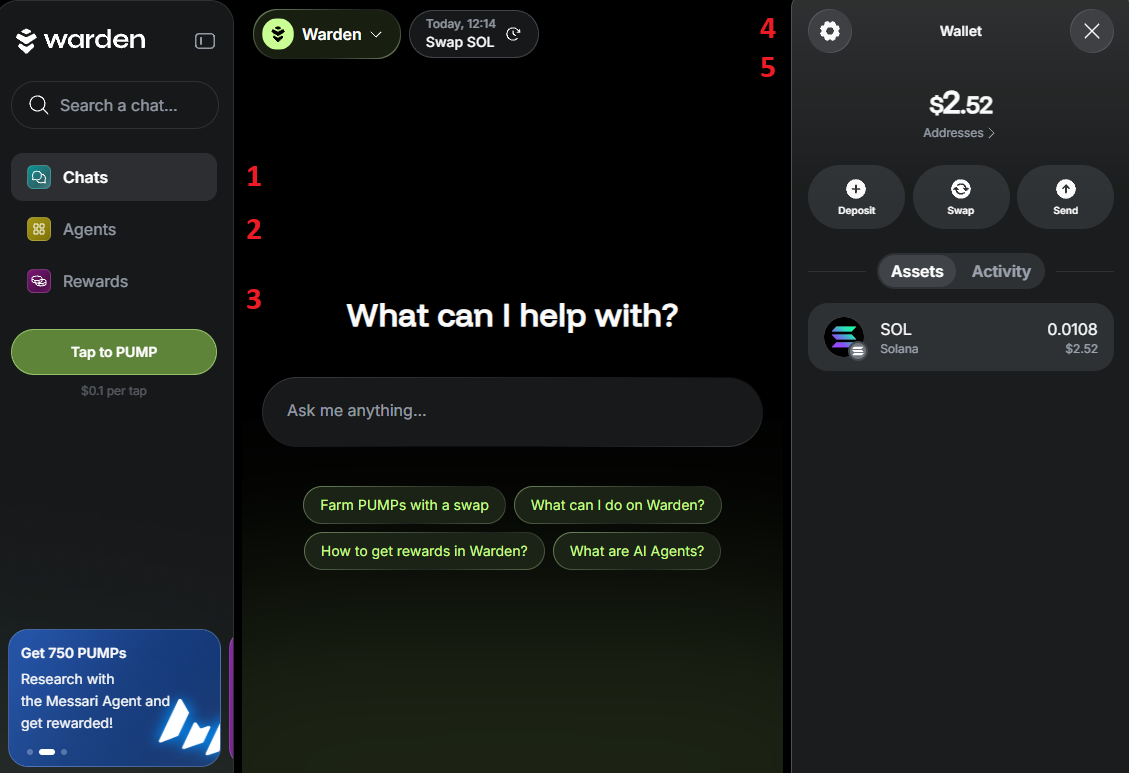
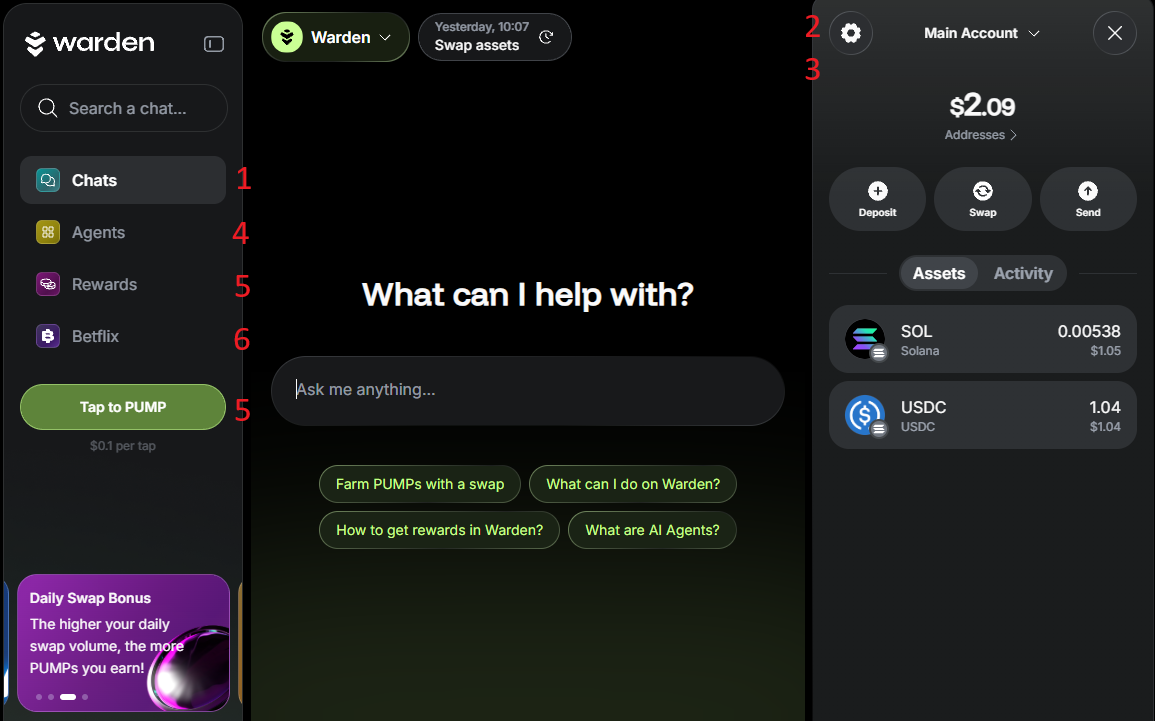
added betflix and levva

diff --git a/docs/help-center/docs/warden-app/explore-ai-agents.md b/docs/help-center/docs/warden-app/explore-ai-agents.md
@@ -1,5 +1,5 @@
 ---
-sidebar_position: 4
+sidebar_position: 6
 ---
 
 # Explore AI Agents
@@ -15,7 +15,7 @@ In the sections below, you'll find the list of available Agents—and more are c
 You can explore and select Agents in the **Agent Hub**:
 
 1. Log in: 👉 [Warden](https://app.wardenprotocol.org)
-2. In the left menu, navigate to the **Agents** tab.
+2. In the left menu, open the **Agents** tab.
 3. Select an Agent. If required, review and accept the legal terms.
 4. After selecting an Agent, you'll be taken to the [Chats tab](use-the-chat#start-chatting).
 5. Make sure you've [funded your wallet](manage-assets#deposit-assets) on one of the chains supported by the chosen Agent.
@@ -48,7 +48,7 @@ Networks:
 - **Base**
 - **BNB Smart Chain (BSC)**
 
-Fees: [swap](fees#swap-fees) and [transfer fees](fees#transfer-fees).
+Fees: [swap](fees#swap-fees) and [transfer fees](fees#transfer-fees)
 
 ### Uniswap Trading API
 
@@ -66,7 +66,7 @@ Networks:
 - **Base**
 - **BNB Smart Chain (BSC)**
 
-Fees: [swap](fees#swap-fees) and [transfer fees](fees#transfer-fees).
+Fees: [swap](fees#swap-fees) and [transfer fees](fees#transfer-fees)
 
 :::note
 To start using this Agent, you need to read and agree to the Uniswap Labs terms of service and privacy policy.
@@ -82,9 +82,9 @@ Just specify the amount and other details in the chat, and the Agent will do the
 - Swap tokens for each other
 - Send SOL or any token to a destination address
 
-Networks: **Solana**.
+Networks: **Solana**
 
-Fees: [swap](fees#swap-fees) and [transfer fees](fees#transfer-fees).
+Fees: [swap](fees#swap-fees) and [transfer fees](fees#transfer-fees)
 
 ### deBridge
 
@@ -104,7 +104,7 @@ Tokens:
 - **BNB**
 - **USDC**
 
-Fees: [deBridge fees](fees#debridge-fees).
+Fees: [deBridge fees](fees#debridge-fees)
 
 ### Base Farmer
 
@@ -121,13 +121,15 @@ Tokens:
 - **USDC**
 - **VIRTUAL**
 
-Fees: [swap](fees#swap-fees) and [transfer fees](fees#transfer-fees).
+Fees: [swap](fees#swap-fees) and [transfer fees](fees#transfer-fees)
 
 ### Levva
 
-The **Levva** Agent is an AI-powered portfolio manager tailoring investment strategies to your goals and automating yield optimization.
+The **Levva** Agent is an AI-powered portfolio manager tailoring investment strategies to your goals and automating yield optimization. This Agent can assist with analyzing your wallet, swapping tokens, managing positions, checking market news, and more.
 
-Fees: [platform fee](fees#platform-fee).
+Networks: **Base**
+
+Fees: [swap fees](fees#swap-fees)
 
 ## Research Agents
 
@@ -139,7 +141,7 @@ The **Messari Deep Research** Agent integrates with [Messari](https://messari.io
 
 Use this Agent to research any blockchain project with detailed, real-time insight: discover trending tokens on a specific chain, generate meme coin reports, analyze NFT market dynamics, and much more.
 
-Fees: [research Agent fees](fees#research-agent-fees).
+Fees: [research Agent fees](fees#research-agent-fees)
 
 ### Kaibot
 
@@ -152,7 +154,7 @@ Fees: [research Agent fees](fees#research-agent-fees).
 
 To start using Kaibot, provide your X handle. If your handle is already linked to the Warden account, Kaibot will fetch it automatically.
 
-Fees: [research Agent fees](fees#research-agent-fees).
+Fees: [research Agent fees](fees#research-agent-fees)
 
 ### WachAI
 
@@ -161,14 +163,14 @@ Fees: [research Agent fees](fees#research-agent-fees).
 - **Address- and chain-based verification**: You provide WachAI with the token's address and the blockchain it resides on. This method is highly accurate, as token addresses are unique.
 - **Ticker-based verification**: You provide WachAI with a token's ticker, and the Agent fetches verification data. This method is less reliable due to possible duplicates in token tickers.
 
-Fees: [research Agent fees](fees#research-agent-fees).
+Fees: [research Agent fees](fees#research-agent-fees)
 
 ## Coming soon
 
 The Agent lineup keeps growing. Here's what to expect next:
 
-- **Travel Agent**: Book trips with AI.
-- **Intelligent DCA**: Perform smart crypto purchases using Dollar-Cost Averaging (DCA)—an investment strategy that spreads out buys over time to reduce the impact of price swings.
+- **Intelligent DCA**
+- **Travel Agent**
 - **ApexLiquid**
 - **The Quantfather**
 - **Venice**

diff --git a/docs/help-center/docs/warden-app/play-betflix.md b/docs/help-center/docs/warden-app/play-betflix.md
@@ -1,0 +1,69 @@
+---
+sidebar_position: 8
+---
+
+# Play Betflix
+
+## Overview
+
+You can trade with **Betflix**, Warden's Tinder-style prediction game.
+
+More trading experiences are coming soon—stay tuned!
+
+## Rules
+
+The rules of Betflix are very simple:
+
+- Swipe right or left to instantly go short or long on crypto assets.
+- Each round lasts 5, 15, or 30 seconds depending on the coin.
+- Positions are auto-closed or liquidated.
+- Outcomes are instantly displayed.
+
+Gameplay details:
+
+- To play, you need **USDC on Solana**.
+- The bet is fixed: **$2** per round with fixed **100x leverage**.
+- Supported coins: **DOGE**, **PEPE**, **BONK**, **WIF**, **SHIB**, **TRUMP**, and more.
+- All bets incur fees. Learn more: [Betflix fees](fees#betflix-fees).
+- [Top traders](#check-your-stats) earn bonuses and [PUMPs](earn-rewards#earn-pumps).
+
+## Start playing
+
+To start playing, you need **USDC on Solana**—starting from **$6**:
+
+1. Log in: 👉 [Warden](https://app.wardenprotocol.org)
+2. If you don't have USDC on Solana, [deposit it to your main wallet](manage-assets#deposit-assets).
+3. In the left menu, open the **Betflix** tab.
+4. In the right panel, click **Deposit** and add USDC from your main wallet.
+5. Start playing:
+   - Swipe right → Go long
+   - Swipe left → Go short
+   - Swipe up → Don't trade
+
+![Start playing Betflix in Warden](../../static/img/warden-app/play-betflix-1.png)
+
+## Deposit & withdraw
+
+**Betflix wallet** is always visible in the right panel of the **Betflix** tab. It supports only **USDC on Solana**.
+
+You can move funds between your [main Warden wallet](manage-your-wallet) and your Betflix wallet:
+
+- To deposit USDC (starting from **$6**), click **Deposit**.
+- To withdraw USDC (starting from **$1**), click **Withdraw**.
+
+:::tip
+To switch to your main wallet at any time, select **Main Account** from the top menu.
+:::
+
+![Start playing Betflix in Warden](../../static/img/warden-app/play-betflix-2.png)
+
+## Check your stats
+
+Each swipe adds to your hourly, daily, and weekly **leaderbords**, ranked by profit and streaks. Top traders earn bonuses, tokens, and [PUMPs](earn-rewards#earn-pumps).
+
+You can view your game statistics in your Betflix wallet, on the right of the **Betflix** tab:
+
+- Check your ranking in the **Leaderboard** tab. You can filter it by **1h**, **24h**, or **7d**.
+- Review your recent plays and results in the **Your Bets** tab.
+
+![Start playing Betflix in Warden](../../static/img/warden-app/play-betflix-3.png)

diff --git a/docs/help-center/docs/warden-app/earn-rewards.md b/docs/help-center/docs/warden-app/earn-rewards.md
@@ -1,5 +1,5 @@
 ---
-sidebar_position: 5
+sidebar_position: 7
 ---
 
 # Earn rewards
@@ -21,7 +21,7 @@ The most active users will also gain priority access to upcoming features.
 To create your **PumpKoin**, take these steps:
 
 1. Log in: 👉 [Warden](https://app.wardenprotocol.org)
-2. In the left menu, navigate to the **Rewards** tab.
+2. In the left menu, open the **Rewards** tab.
 3. Then simply name your coin.
 
 Congratulations! Now you can start earning PUMP points.
@@ -66,10 +66,15 @@ You can access the game from any tab—simply click **Tap to PUMP** in the left 
 
 ![Create and grow your coin in Warden](../../static/img/warden-app/earn-rewards-3.png)
 
+### Play Betflix
+
+You can earn PUMPs if you climb the leaderboards in **Betflix**, our trading game.
+
+Learn more: [Play Betflix](play-betflix).
 
 ### Check your rank
 
-To check your coin's rank, navigate to the **Rewards** tab and scroll down to the **PUMP Leaderboard**:
+To check your coin's rank, open the **Rewards** tab and scroll down to the **PUMP Leaderboard**:
 
 ![Create and grow your coin in Warden](../../static/img/warden-app/earn-rewards-4.png)
 

diff --git a/docs/help-center/docs/warden-app/introduction.md b/docs/help-center/docs/warden-app/introduction.md
@@ -32,10 +32,11 @@ These components work together to create a powerful tool for you to navigate the
 Within Warden, you can do the following:
 
 1. [Use the AI chat](warden-app/use-the-chat)
-2. [Explore AI Agents](warden-app/explore-ai-agents)
-3. [Earn rewards](warden-app/earn-rewards)
-4. [Manage your wallet](warden-app/manage-your-wallet)
-5. [Manage assets](warden-app/manage-assets)
+2. [Manage your wallet](warden-app/manage-your-wallet)
+3. [Manage assets](warden-app/manage-assets)
+4. [Explore AI Agents](warden-app/explore-ai-agents)
+5. [Earn rewards](warden-app/earn-rewards)
+6. [Play Betflix](warden-app/play-betflix)
 
 ![The main features of Warden](../../static/img/warden-app/introduction-1.png)
 

diff --git a/docs/help-center/docs/warden-app/manage-assets.md b/docs/help-center/docs/warden-app/manage-assets.md
@@ -1,5 +1,5 @@
 ---
-sidebar_position: 7
+sidebar_position: 5
 ---
 
 # Manage assets
@@ -15,7 +15,7 @@ You can access your balances and activity in the [wallet](manage-your-wallet):
 1. Log in: 👉 [Warden](https://app.wardenprotocol.org)
 2. Click the wallet icon in the top-right corner.
 3. You'll see the **Assets** tab with a detailed breakdown of your balances.
-4. To explore your activity history and transaction details, navigate to the **Activity** tab.
+4. To explore your activity history and transaction details, open the **Activity** tab.
 
 Alternatively, you can ask the default [Warden AMA Agent](explore-ai-agents#warden-ama) about your balances.
 

diff --git a/docs/help-center/docs/warden-app/fees.md b/docs/help-center/docs/warden-app/fees.md
@@ -1,5 +1,5 @@
 ---
-sidebar_position: 8
+sidebar_position: 9
 ---
 
 # Fees
@@ -63,4 +63,15 @@ Agents charge it in the first available currency, based on this priority:
 - **USDC** on Solana, Base, or Ethereum
 - **SOL** on Solana
 - **ETH** on Base or Ethereum
+:::
+
+## Betflix fees
+
+Trading with [Betflix](play-betflix) incurs the following fees:
+
+- Wins: **15%**
+- Losses: **5%**
+
+:::note
+The remaining amount from losing bets goes to the community treasury (currently $2,000).
 :::

diff --git a/docs/help-center/docs/warden-app/manage-your-wallet.md b/docs/help-center/docs/warden-app/manage-your-wallet.md
@@ -1,5 +1,5 @@
 ---
-sidebar_position: 6
+sidebar_position: 4
 ---
 
 # Manage your wallet
